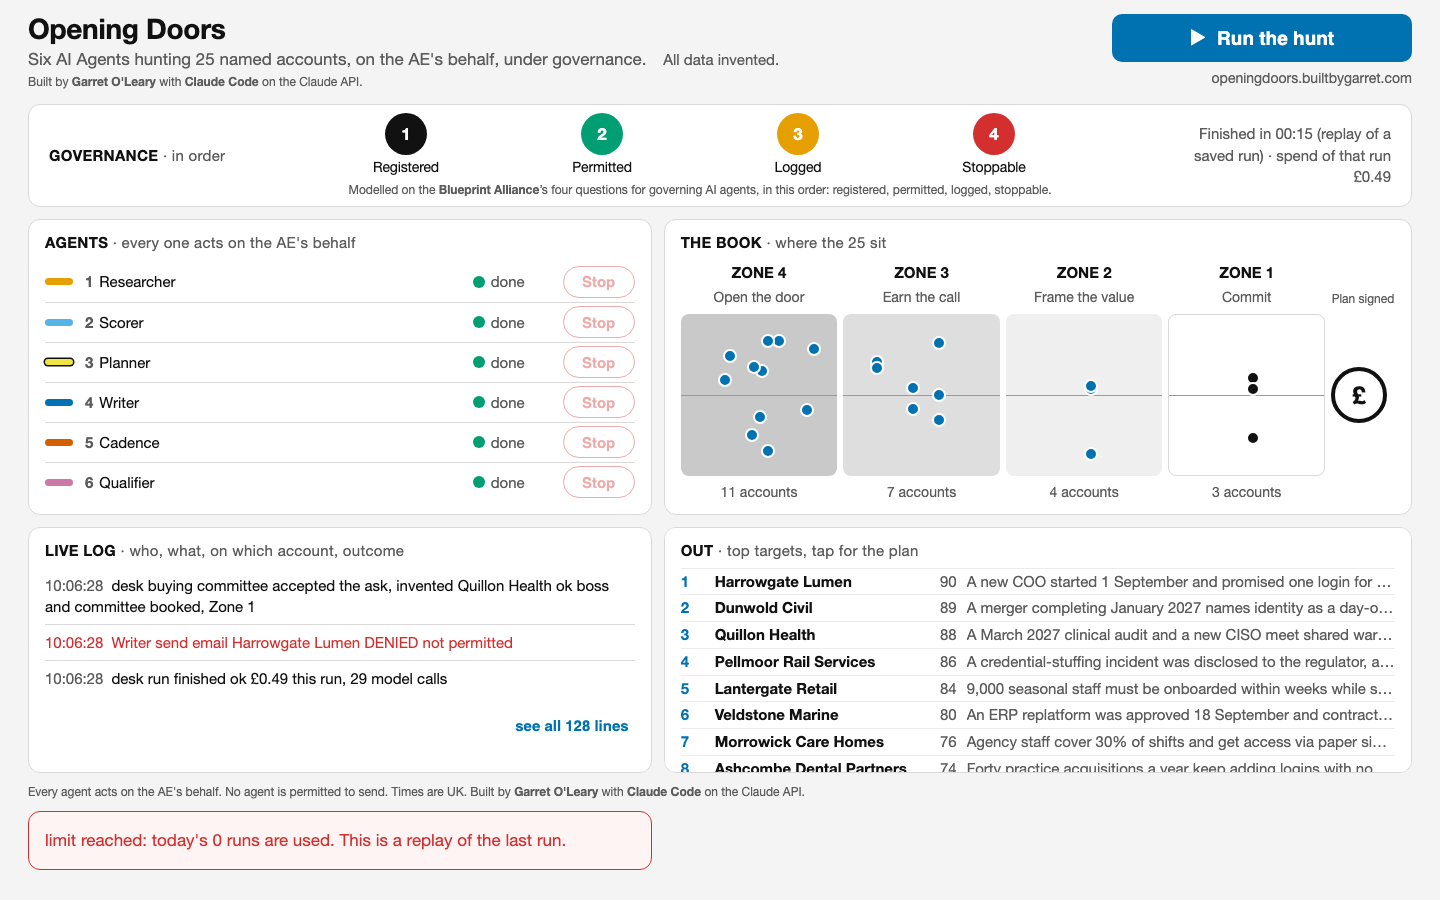
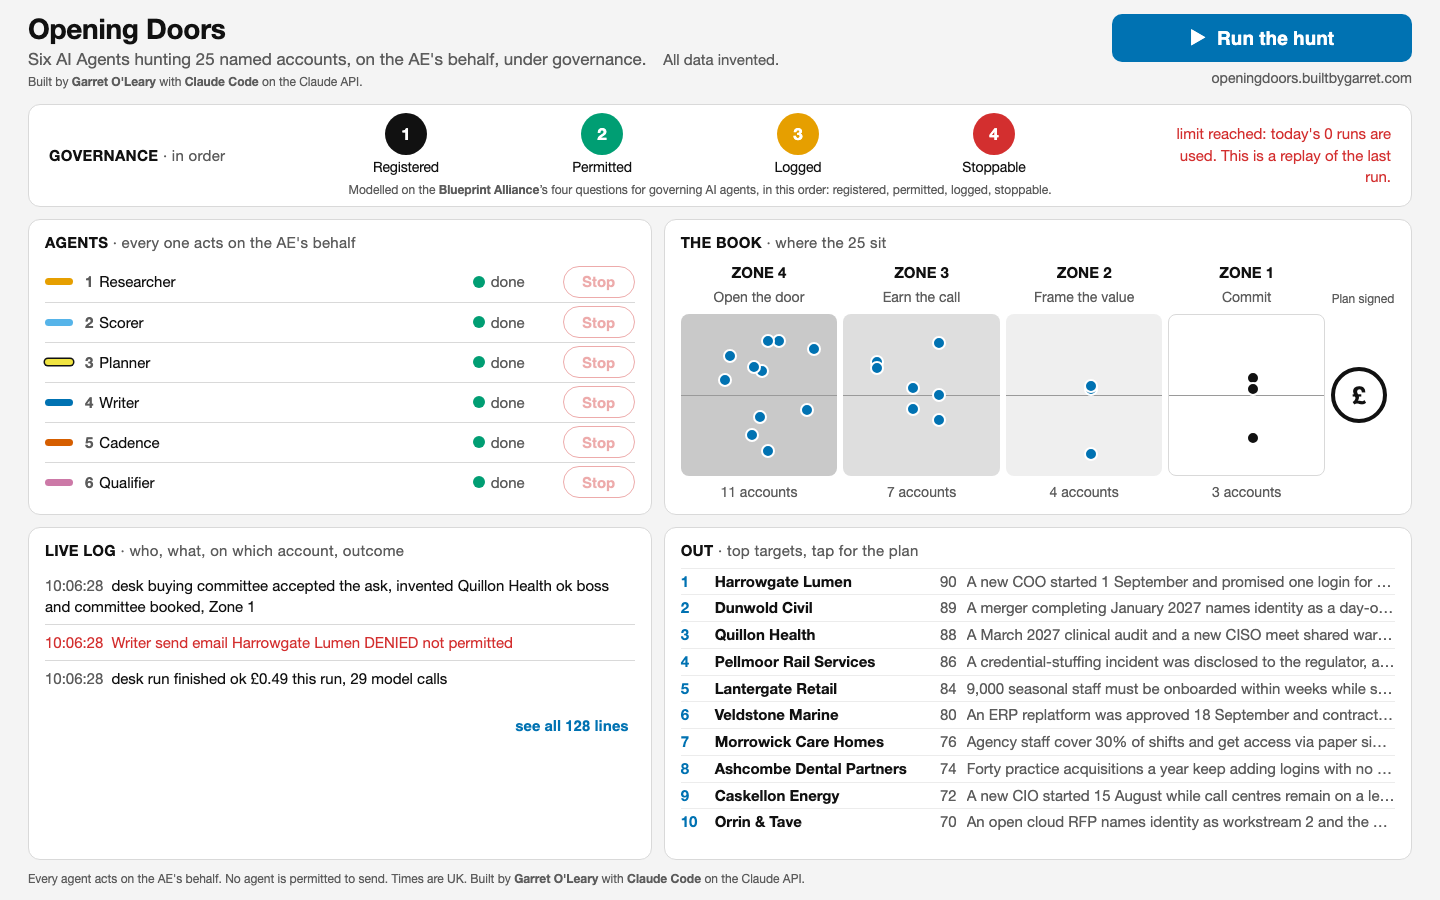
Limit message in the strip on desktop

diff --git a/web/index.html b/web/index.html
@@ -94,7 +94,7 @@
   .log li.red .t { color: var(--red); }
   .empty { color: var(--muted); font-size: 15px; margin: 0; }
   .expand { display: block; width: 100%; min-height: 44px; margin-top: 8px; border: 0; background: none; color: var(--blue); font: 600 15px Inter, -apple-system, sans-serif; text-align: right; cursor: pointer; }
-  .limit { background: #fff4f4; border-color: var(--red); color: var(--red); }
+  .limit { background: #fff4f4; border-color: var(--red); color: var(--red); text-align: left; margin-top: 10px; }
   footer { color: var(--muted); font-size: 13px; margin-top: 8px; }
   .desktop-only { display: none; }
 
@@ -117,6 +117,8 @@
     button.run { width: 300px; }
     .runbox .runline { display: none; }          /* on desktop the timer and spend live in the governance strip */
     .address { font-size: 14px; color: var(--muted); margin-top: 6px; }
+    .runbox .limit { display: none; }                    /* on desktop the limit message takes the strip's timer slot */
+    .card.gov .stripinfo.limit { background: none; border: 0; color: var(--red); padding: 0; margin: 0; text-align: right; }
     .card.gov { grid-area: gov; display: grid; grid-template-columns: 180px 1fr 220px; align-items: center; margin: 0; padding: 8px 20px; }
     .card.gov .light .dot { width: 42px; height: 42px; font-size: 17px; margin-bottom: 4px; }
     .card.gov .light .label { font-size: 14px; white-space: nowrap; }
@@ -175,10 +177,9 @@
       <button class="run" id="run" type="button">&#9654;&nbsp; Run the hunt</button>
       <div class="runline" id="runline"></div>
       <div class="address desktop-only">openingdoors.builtbygarret.com</div>
+      <section class="card" id="limitcard" hidden></section>
     </div>
   </div>
-
-  <section class="card" id="limitcard" hidden></section>
 
   <section class="card gov" aria-label="Governance">
     <h2>GOVERNANCE <span>&middot; in order</span></h2>
@@ -366,7 +367,8 @@
         + '<span class="status ' + a.status + '"><span class="sd"></span>' + a.status + "</span>"
         + '<button class="stop" type="button" data-agent="' + a.name + '"' + (s.running && a.status !== "stopped" && a.status !== "done" ? "" : " disabled") + ">Stop</button></li>";
     }).join("");
-    $("stripinfo").textContent = $("runline").textContent;
+    $("stripinfo").textContent = s.limit ? s.limit : $("runline").textContent;
+    $("stripinfo").className = "stripinfo desktop-only" + (s.limit ? " limit" : "");
     renderMap(s);
     $("zones").innerHTML = (s.zones || []).map(function (z) {
       return '<div class="zone z' + z.zone + '"><div class="zn">Zone ' + z.zone + '</div><div class="zc">' + z.count + '</div><div class="zl">' + esc(z.name) + "</div></div>";
